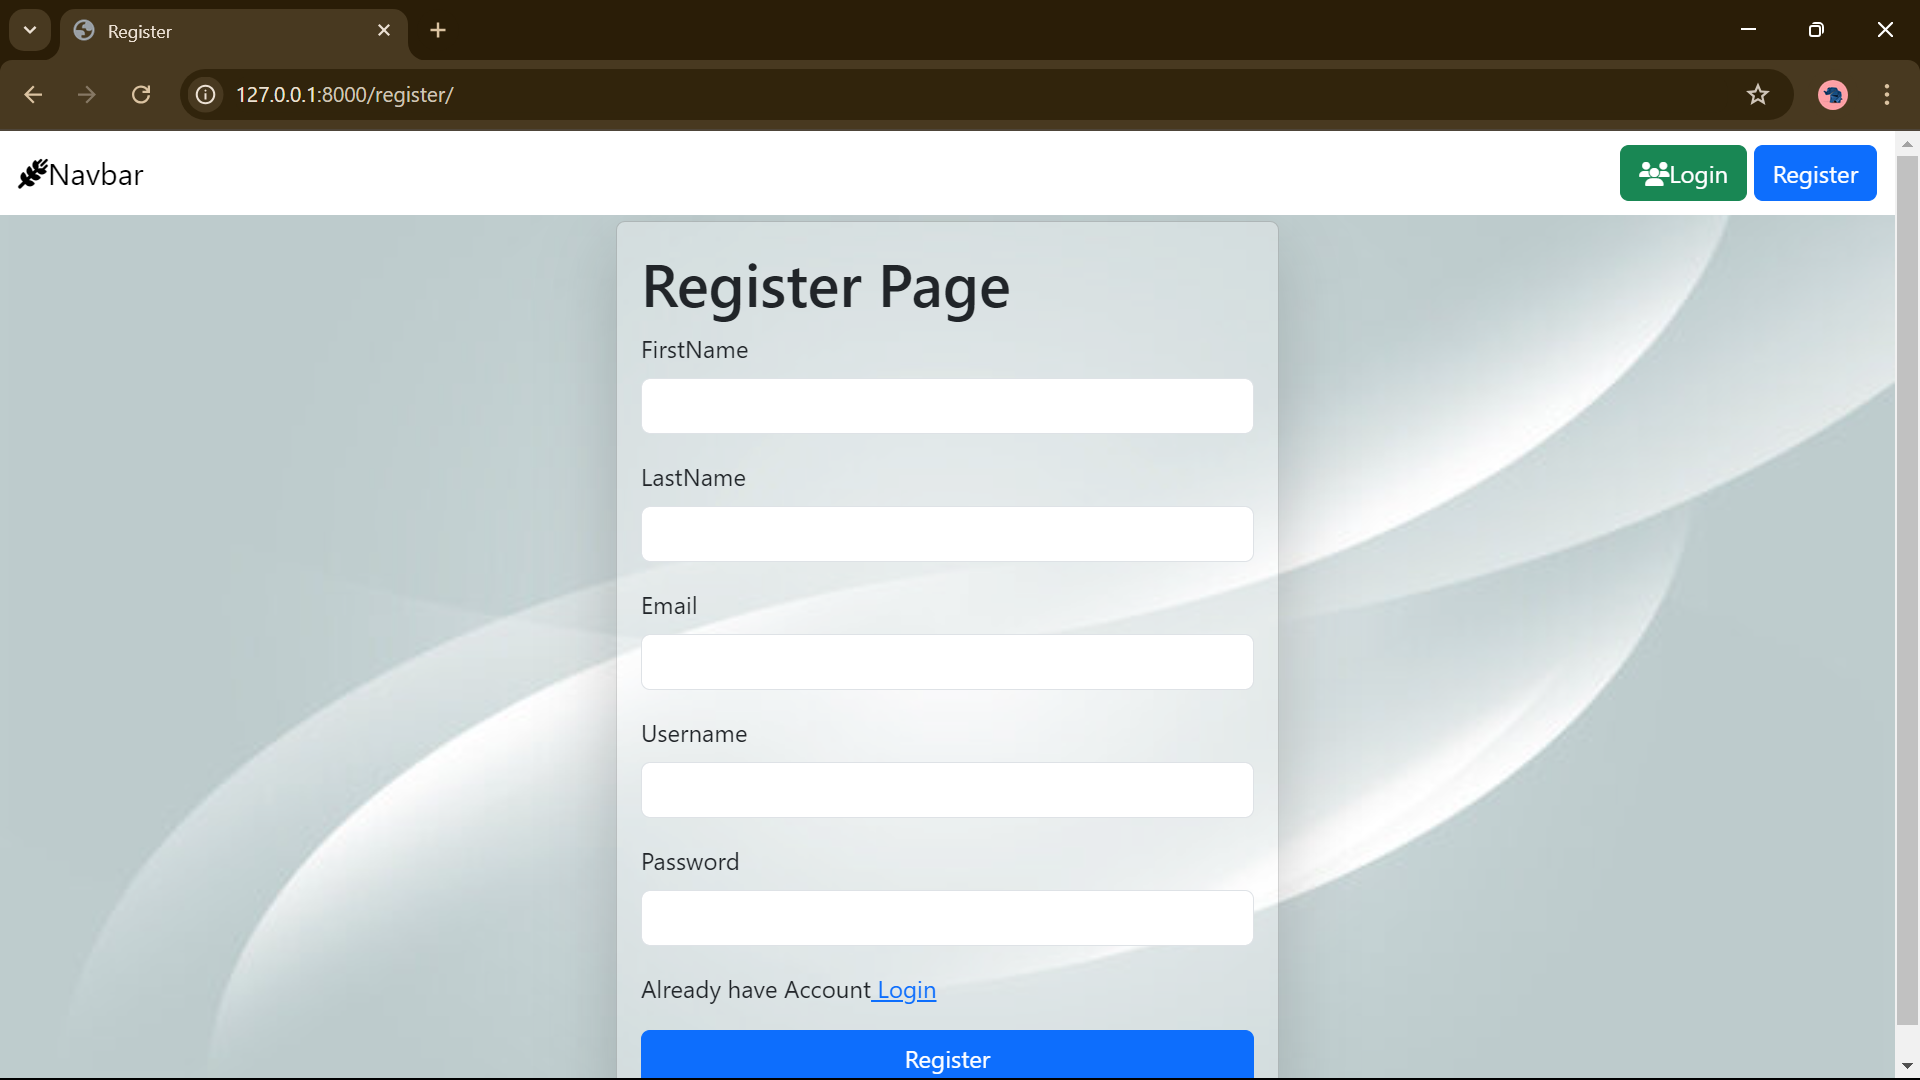
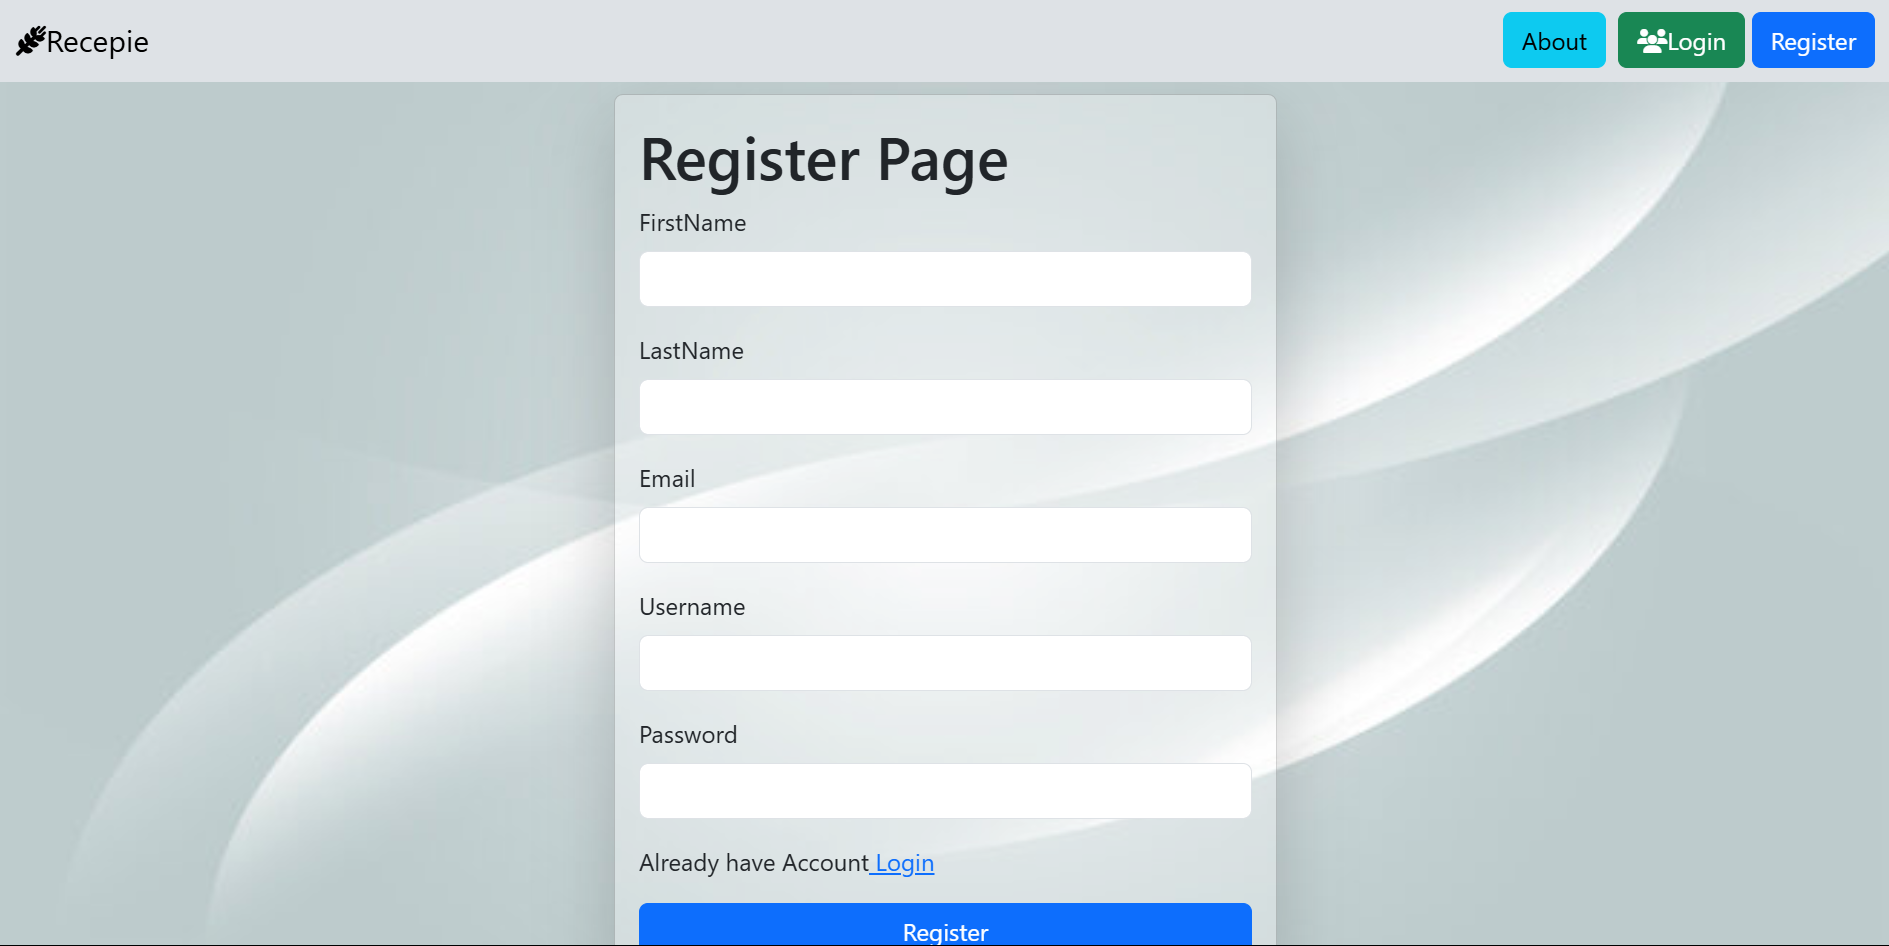
Add Ai assisteant

diff --git a/recepe/templates/base.html b/recepe/templates/base.html
@@ -13,32 +13,66 @@
         .show{
             background-color: transparent;
         }
+        .sav{
+            margin-right: 2px;
+        }
+        footer {
+            background-color: rgb(222, 226, 230);
+            padding: 20px;
+            margin: 0;
+            text-align: center;
+        }
+        
+        footer .navbar-brand {
+            font-size: 28px;
+        }
+        .bg-light-blue { 
+            background-color: rgb(222, 226, 230); 
+        }
     </style>
 </head>
 <body>
-    <nav class="navbar show">
+    <nav class="navbar show bg-light-blue">
         <div class="container-fluid w-full">
-          <a class="navbar-brand"><i class="fa-solid fa-wheat-awn"></i>Navbar</a>
+          <a class="navbar-brand"><i class="fa-solid fa-wheat-awn"></i>Recepie</a>
+          <div class="d-flex align-items-center">
+            <a href="/About/" class="btn btn-info me-2" type="submit">About</a>
           <div role="search">  
         
-        {% if request.user.is_authenticated %}
-            {% if page_title ==  'Profile' %}
-                <a href="/recepies/" class="btn btn-primary" type="submit">Recepie</a>
+            {% if request.user.is_authenticated %}
+                {% if page_title ==  'Profile' %}
+                    <a href="/recepies/" class="btn btn-primary" type="submit">Recepie</a>
+                    <a href="/logout/" class="btn btn-success" type="submit"><i class="fa-solid fa-users"></i>Logout</a>
+                {% else %}  
+                <a href="/profile/" class="btn btn-info" type="submit"><i class="fa-solid fa-user"></i> Profile</a>
                 <a href="/logout/" class="btn btn-success" type="submit"><i class="fa-solid fa-users"></i>Logout</a>
-            {% else %}  
-            <a href="/profile/" class="btn btn-info" type="submit"><i class="fa-solid fa-user"></i> Profile</a>
-            <a href="/logout/" class="btn btn-success" type="submit"><i class="fa-solid fa-users"></i>Logout</a>
+                {% endif %}
+                
+            {% else %}
+                <a href="/" class="btn btn-success" type="submit"><i class="fa-solid fa-users"></i>Login</a>
+                <a href="/register/" class="btn btn-primary" type="submit">Register</a>
+            </div>
             {% endif %}
-            
-        {% else %}
-            <a href="/" class="btn btn-success" type="submit"><i class="fa-solid fa-users"></i>Login</a>
-            <a href="/register/" class="btn btn-primary" type="submit">Register</a>
-          </div>
-        {% endif %}
+          </div> 
+          
         </div>
     </nav>
     {% block content %}
 
     {% endblock %}
+    <footer>
+        <div style="margin-bottom: 5px;">
+            <a class="navbar-brand sav" href="/" style="font-size: 28px;">Recepie <i class="fa-solid fa-wheat-awn"></i></a>
+        </div>
+        <div style="margin-bottom: 25px;">
+            <a href="/About/" style="margin-right: 15px; text-decoration: none; color: #007bff;">About</a>
+            <a href="/register/" style="margin-right: 15px; text-decoration: none; color: #007bff;">Register</a>
+        </div>
+        <div>
+            <blockquote style="font-style: italic; color: #000; text-align: center;">
+                "Elevate Your Cooking, Enhance Your Flavor!" 🍳🌟"
+            </blockquote>
+        </div>
+    </footer>
 </body>
 </html>

diff --git a/recepe/templates/recepie.html b/recepe/templates/recepie.html
@@ -32,10 +32,50 @@
 
   }
   .show{
-    background-color: rgba(226, 232, 240, 0.7);
+    background-color: rgba(226, 232, 240, 0.7); 
     box-shadow: 0 0 10px rgba(0, 0, 0, 0.1);
     font-size:18px;
     background-color: rgb(255 237 213);
+  }
+  .ai-assistant-button {
+    position: fixed;
+    bottom: 20px;
+    right: 20px;
+    background-color: #007bff;
+    color: white;
+    border: none;
+    border-radius: 50%;
+    width: 60px;
+    height: 60px;
+    box-shadow: 0 4px 6px rgba(0, 0, 0, 0.1);
+    cursor: pointer;
+    font-size: 24px;
+    display: flex;
+    align-items: center;
+    justify-content: center;
+  }
+  .ai-assistant-modal {
+    display: none;
+    position: fixed;
+    top: 50%;
+    left: 50%;
+    transform: translate(-50%, -50%);
+    width: 40%;
+    background: white;
+    padding: 20px;
+    box-shadow: 0 4px 6px rgba(0, 0, 0, 0.1);
+    border-radius: 10px;
+    z-index: 1000;
+  }
+  .modal-overlay {
+    display: none;
+    position: fixed;
+    top: 0;
+    left: 0;
+    width: 100%;
+    height: 100%;
+    background: rgba(0, 0, 0, 0.5);
+    z-index: 999;
   }
 </style>
 
@@ -78,7 +118,7 @@
           </div>
         </div>
                                   
-        <table class="mt-1 show">
+        <table class="mt-1 mb-2 show">
           <thead>
             <tr>
               <th scope="col">Id</th>
@@ -110,5 +150,54 @@
       {% endif %}  
             
 </div>
+<button class="ai-assistant-button" onclick="toggleAssistantModal()">AI</button>  
+<div class="modal-overlay" onclick="toggleAssistantModal()"></div>
+<div class="ai-assistant-modal" id="aiModal">
+    <h2>AI Assistant</h2>
+    <textarea id="assistantInput" class="form-control" rows="3" placeholder="Ask something..."></textarea>
+    <button class="btn btn-primary mt-3" onclick="sendToAssistant()">Submit</button>
+    <div id="assistantResponse" class="mt-3"></div>
+</div>
+
+<script>
+  function toggleAssistantModal() {
+    const modal = document.getElementById('aiModal');
+    const overlay = document.querySelector('.modal-overlay');
+    modal.style.display = modal.style.display === 'block' ? 'none' : 'block';
+    overlay.style.display = overlay.style.display === 'block' ? 'none' : 'block';
+  }
+  async function sendToAssistant() {
+    const queryInput = document.getElementById('assistantInput');
+    const csrfToken = document.querySelector('[name=csrfmiddlewaretoken]').value;
+
+    if (!queryInput.value.trim()) {
+        alert('Please enter a query!');
+        return;
+    }
+
+    try {
+        const response = await fetch('/ai_assistant/', {
+            method: 'POST',
+            headers: {
+              'Content-Type': 'application/json',
+              'X-CSRFToken': csrfToken  
+            },
+            body: JSON.stringify({ query: queryInput.value })
+        });
+
+        if (response.ok) {
+          const data = await response.json();
+          document.getElementById('assistantResponse').innerText = data.response;
+        } else {
+          throw new Error('Error: Unable to process the request.');
+        }
+    } catch (error) {
+        console.error('Error:', error);
+        document.getElementById('assistantResponse').innerText = 'Error: Something went wrong!';
+      }
+  }
+ 
+
+</script>  
 
 {% endblock %}

diff --git a/recepe/templates/About.html b/recepe/templates/About.html
@@ -1,0 +1,32 @@
+{% extends "base.html" %}
+
+{% block title %}About Us{% endblock %}
+
+{% block content %}
+<div class="container py-5">
+    <div class="text-center mb-2">
+        <h1>About Us</h1>
+    </div>
+    <div class="row justify-content-center">
+        <div class="col-md-8 align-items-center">
+            <p>
+                Welcome to our platform! Here, you can unleash your culinary creativity by adding your unique recipes and sharing them with your friends and colleagues. 
+                This application is designed to inspire and enhance your cooking skills, helping you build a personal collection of delightful dishes.
+            </p>
+            <p>
+                By sharing your recipes, you not only showcase your talent but also inspire others to explore new ideas in the kitchen. 
+                Let's create a vibrant community of food enthusiasts together!
+            </p>
+        </div>
+    </div>
+    <div class="text-center mt-5">
+        <h3>Why Choose Us?</h3>
+        <ul class="list-unstyled mt-3">
+            <li>📌 Create and manage your personalized recipe collection.</li>
+            <li>📌 Share your culinary creations with friends and family.</li>
+            <li>📌 Connect with a community of like-minded food enthusiasts.</li>
+            <li>📌 Enhance your creativity and cooking skills.</li>
+        </ul>
+    </div>
+</div>
+{% endblock %}

diff --git a/recepe/templates/register.html b/recepe/templates/register.html
@@ -24,7 +24,7 @@
   }
 </style>
 <div class="containery">
-    <form  class="col-6 max-auto card p-3 shadow-lg mt-1 log" method="post">
+    <form  class="col-6 max-auto card p-3 shadow-lg mt-2 mb-2 log" method="post">
         {% csrf_token %}
         <h1>Register Page</h1>
         {% if messages %}

diff --git a/recepe/templates/login.html b/recepe/templates/login.html
@@ -75,6 +75,7 @@
             eyeIcons.forEach(icon => icon.classList.replace('fa-eye-slash', 'fa-eye'));
         }
     }
+
   
   </script>
 

diff --git a/recepe/views.py b/recepe/views.py
@@ -12,6 +12,11 @@ from django.contrib.auth import authenticate,login,logout
 from django.contrib.auth.decorators import login_required
 from recepe.utils import send_email_to_client
 import re
+import json
+from django.http import JsonResponse
+import transformers
+import torch
+from django.views.decorators.csrf import csrf_exempt
 from django.urls import reverse
 @login_required(login_url='/')
 def recepies(request):
@@ -92,6 +97,8 @@ def login_page(request):
 def logout_page(request):
     logout(request)
     return redirect('/')
+def About(request):
+    return render(request,"About.html")
 
 def register(request):
     if request.method=="POST":
@@ -201,3 +208,38 @@ def profile(request):
             messages.error(request, "No image file was uploaded.")
             return redirect(reverse('profile'))
     return render(request, "Profile.html", {"user_info": user_info,'page_title':'Profile'})
+
+
+@login_required(login_url='/')
+@csrf_exempt
+def ai_assistant(request):
+    if request.method == 'POST':
+        try:
+            data = json.loads(request.body)
+            query = data.get('query', '')
+
+            if not query:
+                return JsonResponse({'error': 'Query is required'}, status=400)
+            model_id = "meta-llama/Meta-Llama-3.1-70B-Instruct"
+
+            pipeline = transformers.pipeline(
+                "text-generation",
+                model=model_id,
+                model_kwargs={"torch_dtype": torch.bfloat16},
+                device_map="auto",
+            )
+            outputs = pipeline(
+                query,
+                max_new_tokens=256,
+                return_full_text=False,
+            )
+            return JsonResponse({'response': outputs[0]['generated_text']})
+
+        except json.JSONDecodeError:
+            return JsonResponse({'error': 'Invalid JSON format'}, status=400)
+        except Exception as e:
+            return JsonResponse({'error': str(e)}, status=500)
+
+    return JsonResponse({'error': 'Invalid request method'}, status=400)
+
+

diff --git a/Start/settings.py b/Start/settings.py
@@ -80,7 +80,7 @@ DATABASES = {
         "NAME": BASE_DIR / "db.sqlite3",
     }
 }
-ALLOWED_HOSTS=['add-recipe-backend1.onrender.com']
+# ALLOWED_HOSTS=['add-recipe-backend1.onrender.com']
 
 # Password validation
 # https://docs.djangoproject.com/en/5.0/ref/settings/#auth-password-validators

diff --git a/Start/urls.py b/Start/urls.py
@@ -35,7 +35,8 @@ urlpatterns = [
     
     path("admin/", admin.site.urls),
     path("profile/",profile,name="profile"),
-    
+    path("About/",About,name="About"),
+    path('ai_assistant/', ai_assistant, name="ai_assistant"),
     path("forget/",forget,name="forget")
 ]
 
